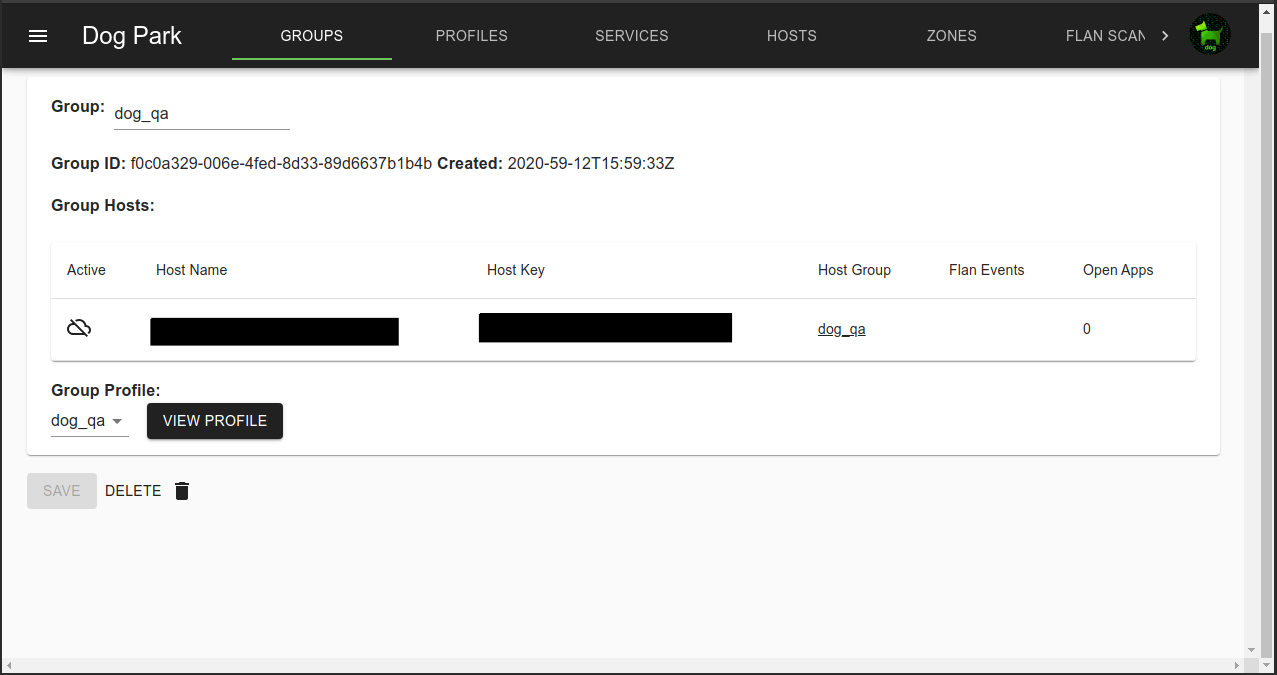
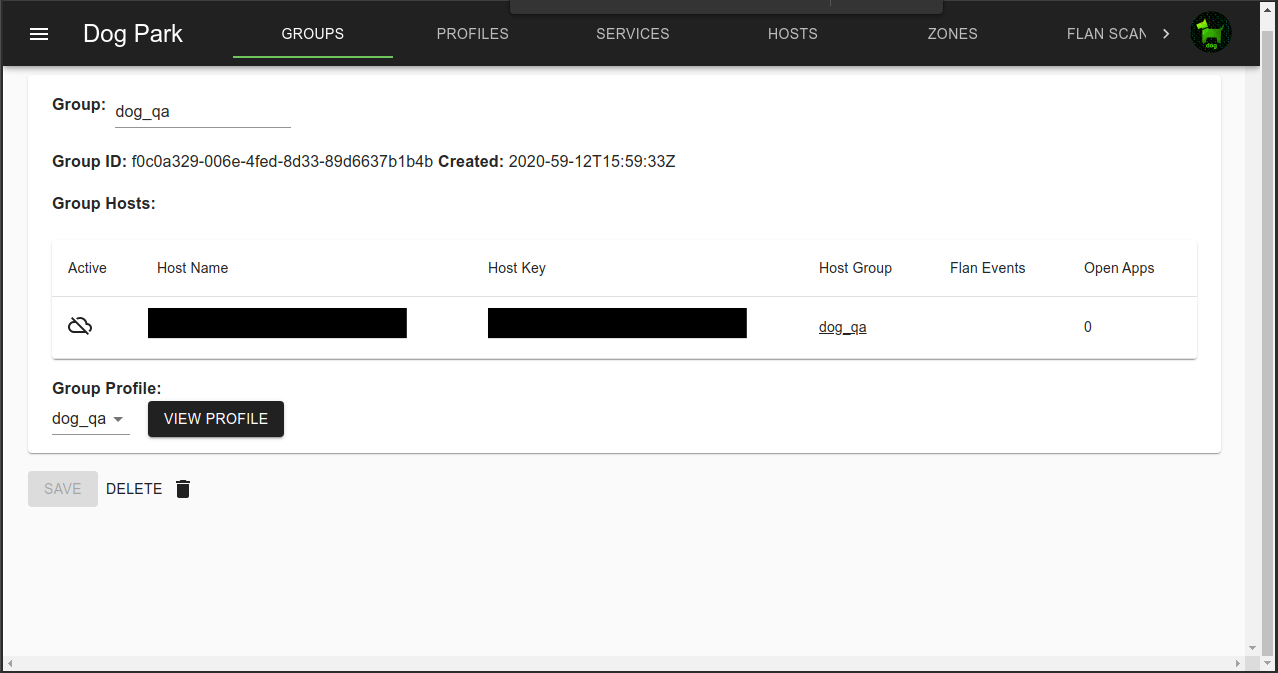
improved redactions on screenshots, reorganized user_manual.

diff --git a/docs/user_manual/user_manual.md b/docs/user_manual/user_manual.md
@@ -2,8 +2,121 @@
   <img src="../../images/dog-segmented-green.network-200x200.png">
 </p>
 
-# User Manual: dog
+- [Hosts](#hosts) are servers with Agents installed.
+- [Groups](#groups) are collections of Hosts.
+- [Zones](#zones) are lists of addresses.
+- [Profiles](#profiles) are lists of Rules, and are assigned to Groups.
+- Rules can include either Groups or Zones along with Services that describe the
+  controlled protocols.
+- Iptables are generated from these Rules and distributed to Agents.
+- Ipsets are used to make fast, readable iptables rules even with thousands of addresses.
+- [Services](#services) define ports and protocols.
+- [Flan Scans](#flan-scans) show network vulnerabilities found on servers.
+- [Links](#external-links) are used to share the addresses of Groups and Zones (as ipsets) between
+  multiple dog_trainers.
 
-- [dog_park](dog_park.md)
-- [dog_trainer](dog_trainer.md)
-- [dog_agent](dog_agent.md)
+- Configuration and runtime guides:
+    - [dog_trainer](dog_trainer.md)
+    - [dog_agent](dog_agent.md)
+
+# Web Console: dog_park
+
+dog_park is the primary user interface for dog.
+
+## Hosts
+
+Each agent is listed in Hosts.  Agents appear as Hosts as they attach to dog_trainer.
+<div align="center">
+<img src="images/dog_park-hosts.png" width="95%"</img>
+</div>
+
+Hosts include local, public and ec2 public addresses.
+
+<div align="center">
+<img src="images/dog_park-host.png" width="95%"</img>
+</div>
+
+## Groups
+
+Hosts are assigned to a group, usually when the Agent is configured, but assignments can be changed in the console.
+<div align="center">
+<img src="images/dog_park-groups.png" width="95%"</img>
+</div>
+<div align="center">
+<img src="images/dog_park-group.png" width="95%"</img>
+</div>
+
+## Zones
+
+Zones are static lists of IPs that can be referenced in Profiles.\
+Fairly static Zones can be updated in the console, but highly dynamic Zones like block or allow lists can be modified via the dog_trainer API.
+
+<div align="center">
+<img src="images/dog_park-zones.png" width="95%"</img>
+</div>
+Zones can include both IPv4 and IPv6 addresses.
+<div align="center">
+<img src="images/dog_park-zone.png" width="95%"</img>
+</div>
+
+
+## Profiles
+
+Profiles describe the access rules.
+
+<div align="center">
+<img src="images/dog_park-profiles.png" width="95%"</img>
+</div>
+
+Group are associated with a Profile. Groups, Zones and Services are references in Profile rules.\
+Each rule can be active or inactive.\
+Rule types include: basic, connlimit (connection limit), recent (rate limit)\
+Source can be a Group or Zone.\
+Inbound tables are default DROP, so anything not specifically allowed by rules will be dropped.\
+Outbound tables are default ACCEPT.
+
+<div align="center">
+<img src="images/dog_park-profile.png" width="95%"</img>
+</div>
+
+
+## Services
+
+Ports and protocols are defines in Services.
+<div align="center">
+<img src="images/dog_park-services.png" width="95%"</img>
+</div>
+Multiple ports, each with a different protocol types can be defined per service
+<div align="center">
+<img src="images/dog_park-service.png" width="95%"</img>
+</div>
+
+
+## Flan Scans
+
+Integration with the network vulnerability scanner [Flan Scan](https://github.com/cloudflare/flan) is available.
+<div align="center">
+<img src="images/dog_park-flan_scans.png" width="95%"</img>
+</div>
+An example of a Host with a Flan Scan discovered CVE.
+<div align="center">
+<img src="images/dog_park-host-flan.png" width="95%"</img>
+</div>
+
+
+## External Links
+
+Links share Groups, Zones and Host addresses between dog_trainers, but not Profiles.\
+This is useful for sharing access between servers managed by different business units.
+
+<div align="center">
+<img src="images/dog_park-links.png" width="95%"</img>
+</div>
+
+Link direction can be bidirectional, inbound, or outbound.\
+Link address handling can combine each dog_trainer's ipsets (union), or add the links name as a prefix to the ipset names (prefix).
+Connection information is for the other sides' RabbitMQ.
+<div align="center">
+<img src="images/dog_park-link.png" width="95%"</img>
+</div>
+

diff --git a/README.md b/README.md
@@ -46,6 +46,8 @@ dog is your network guard dog.
   while allowing each dog_trainer to have it's own security rules.
 - Integration with [Flan Scan](https://github.com/cloudflare/flan),
   a network vulnerability scanner.
+- Agents support Linux 2.6+ iptables firewalls.
+- Supports cloud public IP addresses (currently only EC2).
 
 ## Components
 
@@ -84,19 +86,6 @@ dog is your network guard dog.
 - dog's use of ipsets not only allows highly scalable, fast rulesets, it also
   keeps iptables size small enough to be auditable by a human.
 
-## Logical Elements
-
-- Hosts are servers with Agents installed.
-- Zones are static lists of addresses.
-- Groups are collections of Hosts.
-- Profiles are lists of Rules, and are assigned to Groups.
-- Rules can include either Groups or Zones along with Services that describe the
-  controlled protocols.
-- Iptables are generated from these Rules and distributed to Agents.
-- Ipsets are used to make fast, readable iptables rules even with thousands of addresses.
-
-- Links are used to share the addresses of Groups and Zones (as ipsets) between
-  multiple dog_trainers.
 
 ## Install
 
@@ -108,3 +97,21 @@ dog is your network guard dog.
 ## Use
 
 - [user_manual](docs/user_manual/user_manual.md)
+
+## RoadMap
+- [ ] Version and document the API
+- Agent support for
+    - More Linux distros
+        - [ ] Arch
+    - Other \*nix OSes
+        - [ ] BSD
+- Support for other firewall types
+    - [ ] nftables (beyond iptables-legacy compatibility support)
+- Manage Cloud security groups
+    - [ ] AWS EC2
+    - [ ] Google Cloud
+    - [ ] Microsoft Azure
+- Support Cloud Instances
+    - [x] AWS EC2
+    - [ ] Google Cloud
+    - [ ] Microsoft Azure

diff --git a/docs/install/dog_trainer.md b/docs/install/dog_trainer.md
@@ -36,7 +36,7 @@ a centralized firewall management system.
 
 If you already have a CA and per-server certs, you can reuse them, or buy new ones
 (costly).
-You can create your own self-signed certs with your own Certificat Authority.
+You can create your own self-signed certs with your own Certificate Authority.
 
 Examples Ansible scripts are provided to get you started.  Examples use Credstash
 to securely store the CA files [credstash](https://github.com/fugue/credstash)

diff --git a/docs/user_manual/dog_trainer.md b/docs/user_manual/dog_trainer.md
@@ -14,7 +14,7 @@ Components:
 # dog_trainer
 
 dog_trainer is deployed as an Erlang release, which is a way to combine the application and all of the Erlang language
-componenents needed.
+components needed.
 
 - Start: `sudo systemctl start dog_trainer`
 

diff --git a/docs/install/dog_agent.md b/docs/install/dog_agent.md
@@ -23,6 +23,7 @@ a centralized firewall management system.
 - linux 4.x+ (CentOS 6, Ubuntu 16.04+ tested)
 - iptables
 - ipset
+- Only supports cloud public IP addresses on AWS EC2.
 
 ## Runtime Dependencies Setup
 
